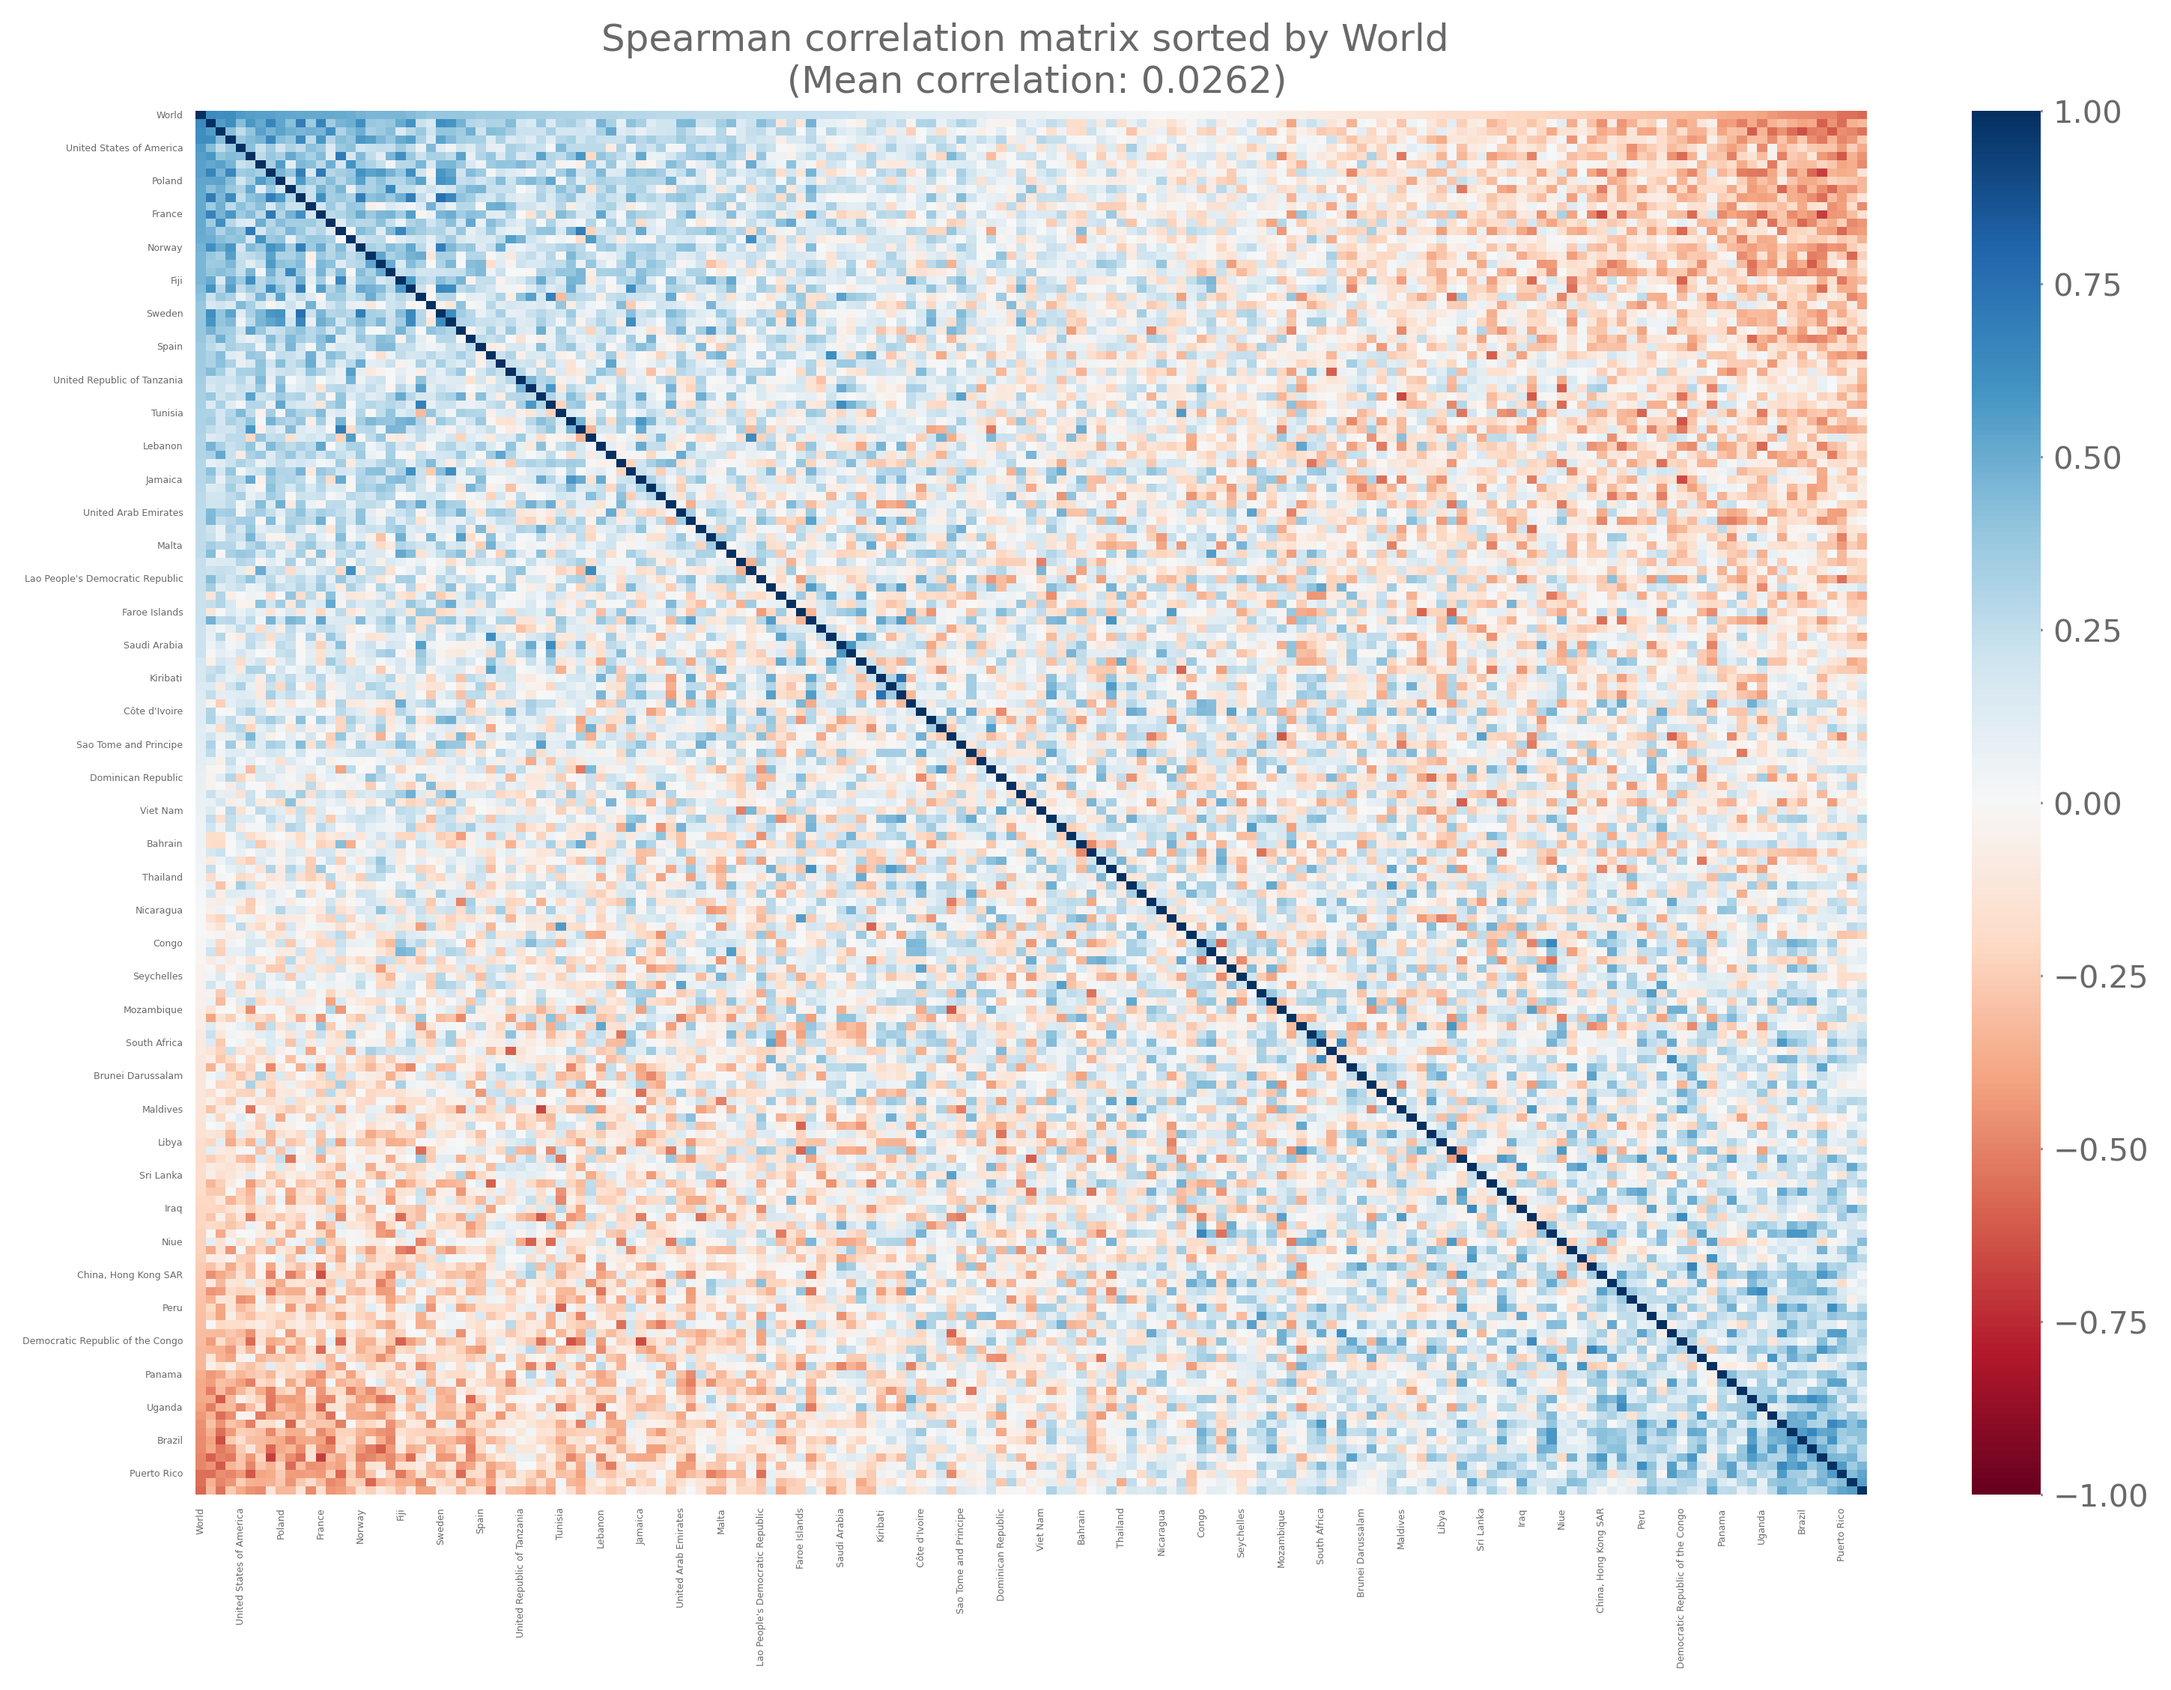
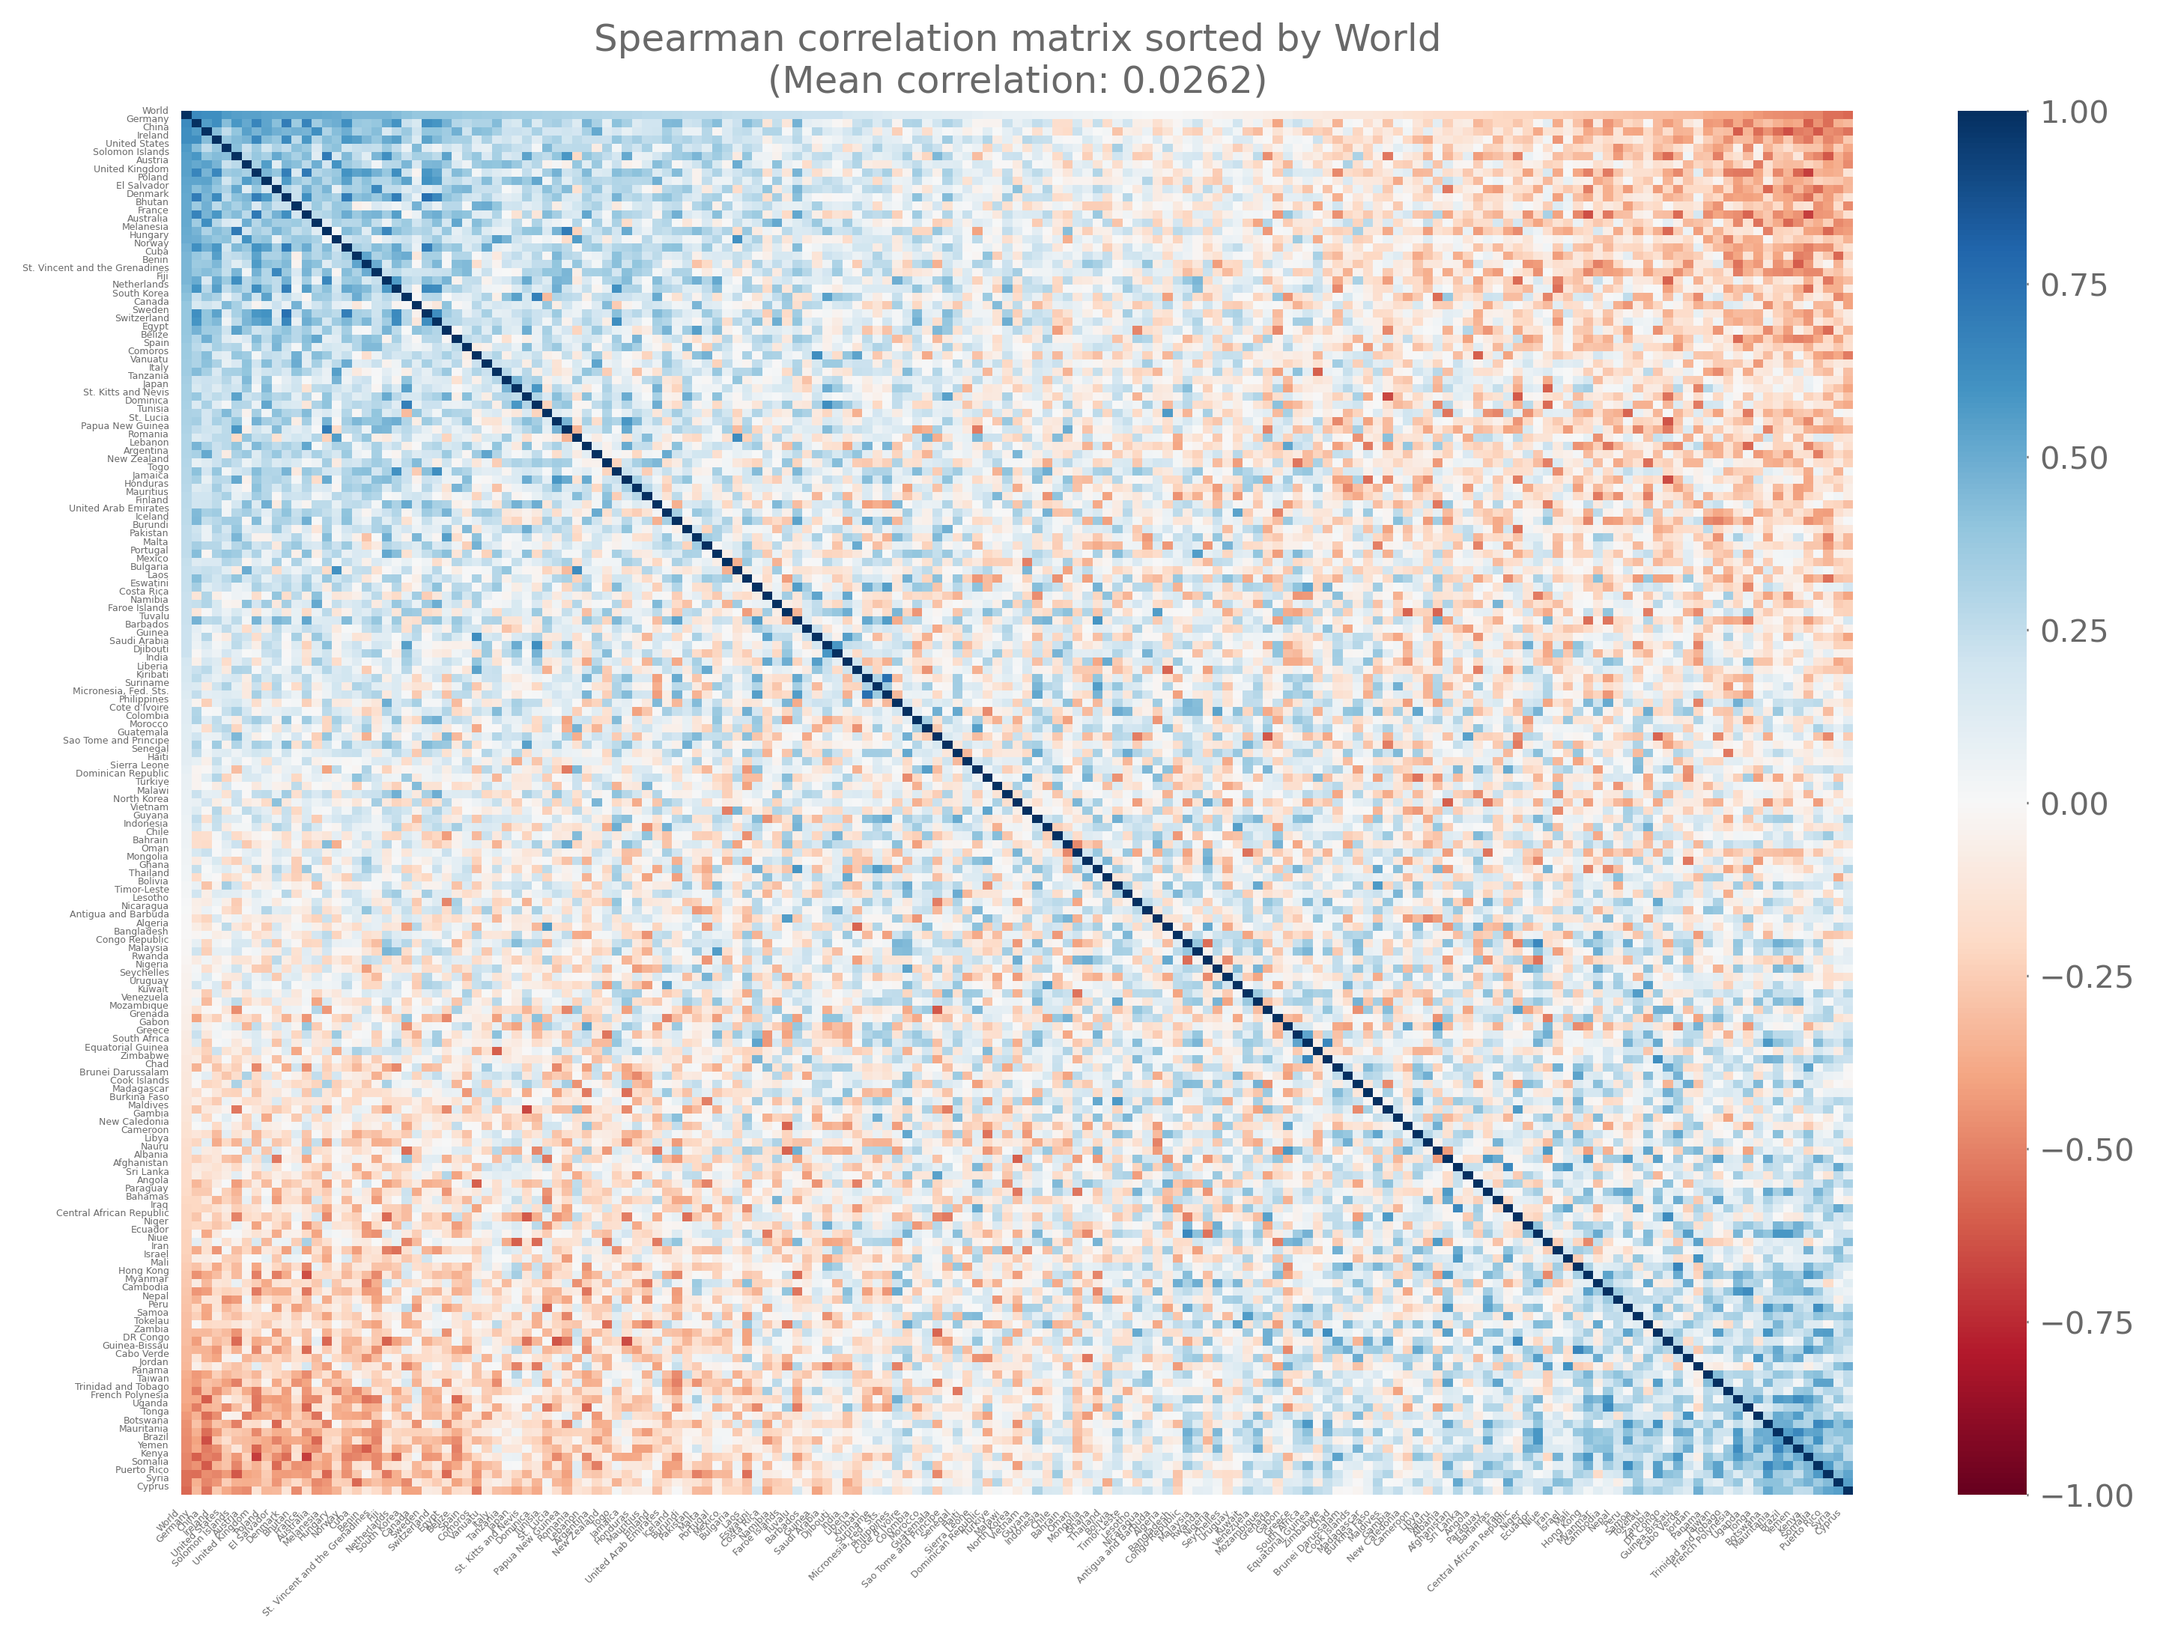
Updated labelling

diff --git a/src/plot_country_world_correlations.py b/src/plot_country_world_correlations.py
@@ -163,35 +163,58 @@ def calculate_correlation_matrix(
 
 def create_heatmap(corr, sortby="World"):
     """
-    Create and display a heatmap of the correlation matrix.
-
+    Create and display a heatmap of the correlation matrix with shortened country names.
+    
     Args:
         corr (pandas.DataFrame): Correlation matrix with countries/regions as index and columns.
-        sortby (str, optional): Country/region name to sort the matrix by.
-            Defaults to "World".
-
+        sortby (str, optional): Country/region name to sort the matrix by. Defaults to "World".
+    
     Returns:
         None: Displays the heatmap and saves it to file.
     """
+    # Sort the correlation matrix by the specified column
     sorted_indices = corr[sortby].sort_values(ascending=False).index
     sorted_corr = corr.loc[sorted_indices, sorted_indices]
+    
+    # Convert country names to short versions (ISO3 codes)
+    # Keep original name if conversion fails
+    cc = coco.CountryConverter()
+    short_names = []
+    for name in sorted_corr.index:
+        try:
+            # Try to convert to name_short, fallback to original if not found
+            short_name = cc.convert(name, to='name_short')
+            # If conversion returns 'not found' or the original name, keep original
+            if short_name == 'not found' or short_name == name:
+                short_names.append(name)
+            else:
+                short_names.append(short_name)
+        except:
+            # If any error occurs, keep the original name
+            short_names.append(name)
+    
+    # Calculate mean correlation excluding the "World" row/column
     mean_corr = sorted_corr.drop("World").values.mean()
-
-    # plot heatmap of corr_RMT
+    
+    # Create the heatmap
     plt.figure(figsize=(12, 8))
     sns.heatmap(sorted_corr, cmap="RdBu", vmin=-1, vmax=1, center=0)
-    plt.xticks(fontsize=3)
+    
+    ticklabel_size = 3
+    # Force all ticks to display with shortened country names
+    plt.xticks(range(len(sorted_corr.columns)), short_names, 
+               rotation=45, ha='right', fontsize=ticklabel_size)
+    plt.yticks(range(len(sorted_corr.index)), short_names, 
+               rotation=0, fontsize=ticklabel_size)
+    
+    # Remove axis labels and set title
     plt.xlabel("")
     plt.ylabel("")
-    plt.yticks(fontsize=3)
-    plt.title(
-        f"Spearman correlation matrix sorted by {sortby} \n (Mean correlation: {mean_corr:.4f})"
-    )
-    plt.savefig(
-        f"results/figures/correlation_matrix_{sortby}.png",
-        dpi=300,
-        bbox_inches="tight",
-    )
+    plt.title(f"Spearman correlation matrix sorted by {sortby}\n(Mean correlation: {mean_corr:.4f})")
+    
+    # Save with tight layout to prevent label cutoff
+    plt.savefig(f"results/figures/correlation_matrix_{sortby}.png",
+                dpi=300, bbox_inches="tight")
 
 
 def create_map_visualization(corr_series):
